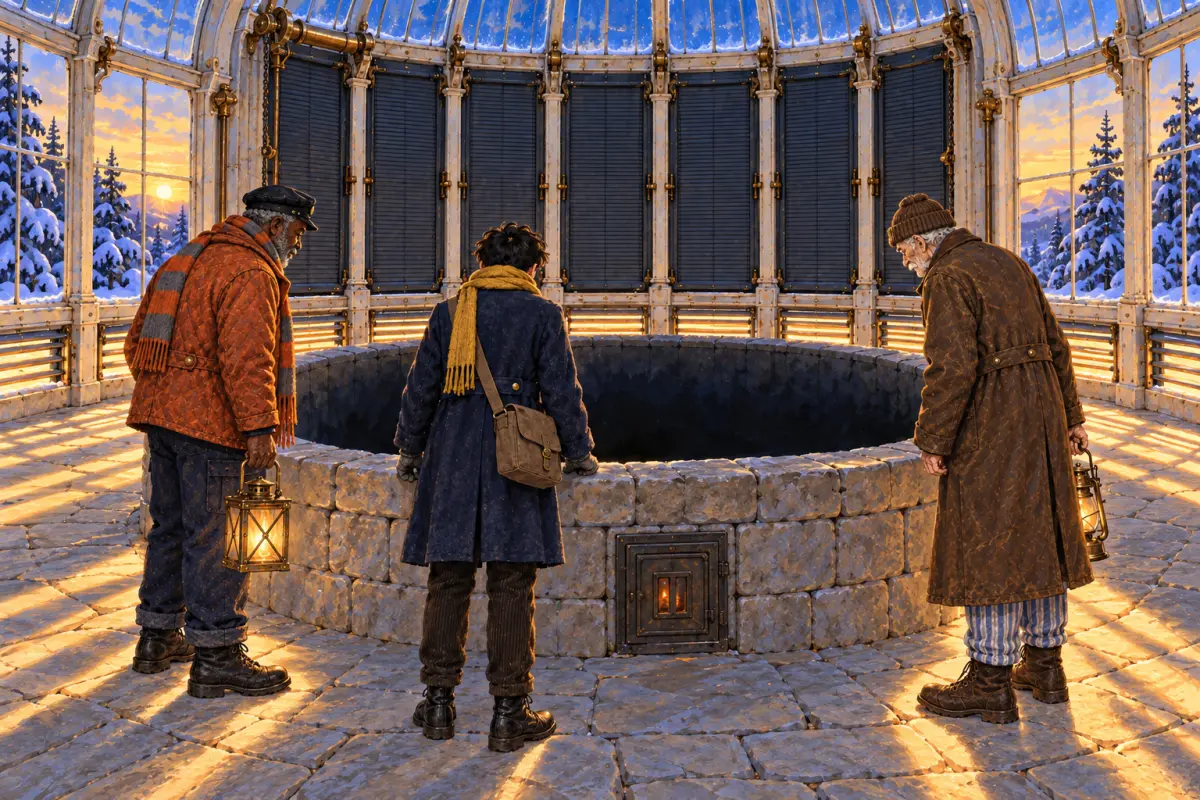
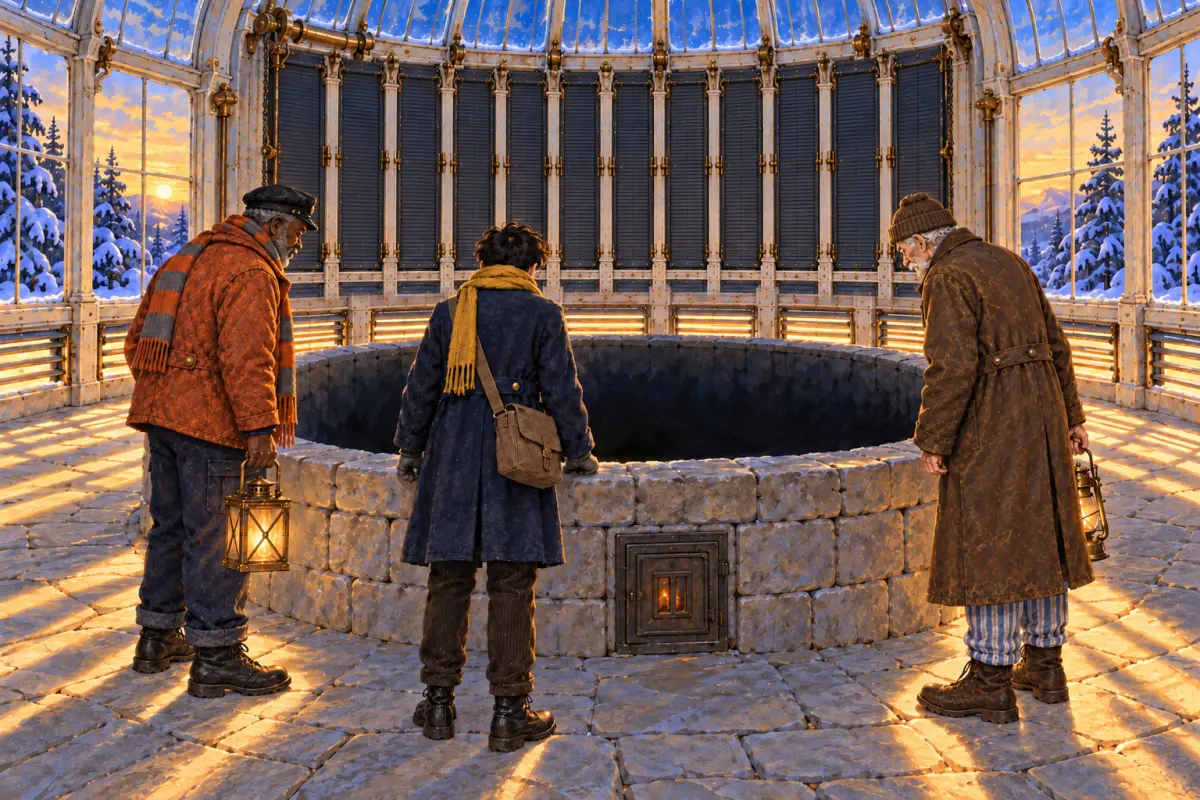
Correct F05 full shutter bank to twelve leaves

diff --git a/docs/glasshouse-express/art-scene-finale-astra.md b/docs/glasshouse-express/art-scene-finale-astra.md
@@ -194,11 +194,11 @@ Each upper/lower image is an entire approved reference board. Use identity/desig
 
[1 lines of base64/hex data omitted]
 
[2 lines of base64/hex data omitted]
 
[2 lines of base64/hex data omitted]
 
-QA: Original inspected: closed tall shutters, open side louvres and low golden light, bed contents completely lost in shadow, three correct figures and lanterns. No correction. Final WebP inspected at native size; identity, hands/anatomy, route state and geometry preserved.
+QA: Owner requested exact twelve leaves because full bank endpoints were visible. Built-in edit subdivided bank into twelve distinct closed leaves (six plus six); counted at original and final size. Bed contents remain unreadable, cast and hands unchanged.
 
 Actual reference attachments on every call:
 
@@ -228,6 +228,30 @@ Image 2: upper = fenn; lower = sunwort
 Image 3: upper = conservatory-exterior; lower = conservatory-interior
 References establish identities only. Medium wide view across circular bed: interior of bed is deep uniform blue-black shadow, absolutely no discernible leaves, buds or plant silhouettes. Narrow side louvres admit low stripes of golden light strictly on floor and boots, never on bed contents. Tall eastern shutters remain fully CLOSED. Three people looking down, rear-facing player, Fenn in buttoned coat and cap holding hurricane lantern. Preserve lamp identity and natural hands. No extra subjects.
 ```
+Correction generated original: `/Users/carl/.codex/generated_images/01a13c80-41e2-7741-adff-74d7d67b8fcd/exec-e287db97-d135-48c1-80e7-98dc8b3f2327.png`, SHA same as selected PNG. Rejected first variant retained at `art-src/corrections/F05-v1.png`. All three reference packs plus target attached.
+
+Exact correction prompt:
+
+```text
+The attached sheets lock identity, shape, colour, clothing and scale only. Draw ONLY the scene below, not a lineup. Do not add other subjects or equipment from a reference. Match this scene’s possession, costume variant, time, location and object state. Shared-path illustrations must be valid on every arrival route; never interpret an optional companion as required.
+Painterly 1980s fantasy-adventure illustration, gouache and ink line, luminous frost blues and warm glasshouse amber, expressive invented faces, cinematic light, 3:2 landscape. Family-friendly, gently comic. Only the listed characters appear; Hesper appears only at the Terminus, Cassia only inside her studio, Sallow only at the Ember Works, Fenn only at the Conservatory; radio voices and telephone voices are never drawn. No real people's likenesses, no famous trains or film props, no logos, no legible text or captions (signs and plates are blank or unreadable). Every scene states location, weather and time: the night is clear with hard frost and stars, wind only on the Mere viaduct, tunnel interiors enclosed and weatherless, dawn scenes clear and golden. Use 'alone (X is not here)' when specified. Keep every character's clothing word-for-word identical to the cast description; scene prompts never substitute outfits. The player's face is always hidden. Action is machinery, weather and plants, never injury; falling glass lands where nobody stands. Optional companions, props and the empty dark carriages are absent unless explicitly listed for that scene.
+
+THE PLAYER: an unnamed, gender-neutral teenager, always seen from behind or over the shoulder with the face hidden, in a navy wool railway greatcoat with brass buttons, a mustard knitted scarf, grey woollen gloves, dark corduroy trousers and black lace-up boots, with a brown canvas keeper's satchel worn across the body on a strap from the LEFT shoulder to the RIGHT hip, closed by a single brass flap buckle. Short dark hair under no hat. The brass thaw-lamp is carried only when listed.
+
+DOV PELLINGER: an original big man in his fifties, dark brown skin, close-cropped grey beard, a black railway cap with a small round brass badge, a quilted rust-orange oilskin jacket over navy bib overalls, a scarf of alternating orange and grey stripes with an orange fringe, heavy black boots. Carries a square X-braced brass hand lantern when outdoors. Calm, slow-moving, kind.
+
+TOBIAS FENN: an original tall thin man in his seventies, pale lined skin, white moustache, a brown knitted cap, a long brown waxed coat buttoned over blue-and-white striped pyjamas, unlaced brown boots. Carries a hurricane lantern. Grumbling but devoted.
+
+THE CONSERVATORY: a great glass dome on the summit of Cold Hill, white-painted iron ribs, a lantern cupola at the crown, a stone base, and on its eastern face a curved row of twelve tall vertical iron shutters with a heavy chain and a large brass wax cylinder mounted high where their gear meets the ribs. Inside, a round raised stone planting bed (the Great Bed) with a small iron stove door in its base, and narrow hand-opened side louvres low in the walls. Outside, iron gates in a stone wall and a frozen fountain.
+
+Sunrise inside the Conservatory on Cold Hill: low golden light slanting in through narrow open side louvres near the floor, lighting the stone floor and the lower glass but leaving the round Great Bed in the centre in deep cool shadow under the still-closed tall eastern shutters. The player, Dov and Fenn stand at the bed's rim looking down into the shadowed bed, the player seen from behind; the bed's contents are lost in shadow, no leaf shapes readable. Only these three people.
+
+Image 1: upper = player-hesper; lower = dov
+Image 2: upper = fenn; lower = sunwort
+Image 3: upper = conservatory-exterior; lower = conservatory-interior
+Image 4 is edit target. Targeted correction ONLY: the target displays the entire closed shutter bank between clear side glazing but has too few tall shutter leaves. Rebuild this closed curved bank as EXACTLY TWELVE distinct tall iron shutter leaves, six left of the central dividing rib and six right, each separated by a narrow white iron stile and its own visible hinge hardware. Count six plus six = twelve. Keep same overall width/height of shutter bank, using narrower leaves. Every one remains fully closed. Preserve all other image details, especially the three characters' faces, clothes, hands, player rear view and satchel, lantern identities, stone bed with entirely unreadable shadowed contents, warm stove, OPEN low side louvres and low golden floor lighting, camera/framing. No additional plants or people. Full-bleed 1536x1024.
+```
+
 ## F06
 
[1 lines of base64/hex data omitted]
